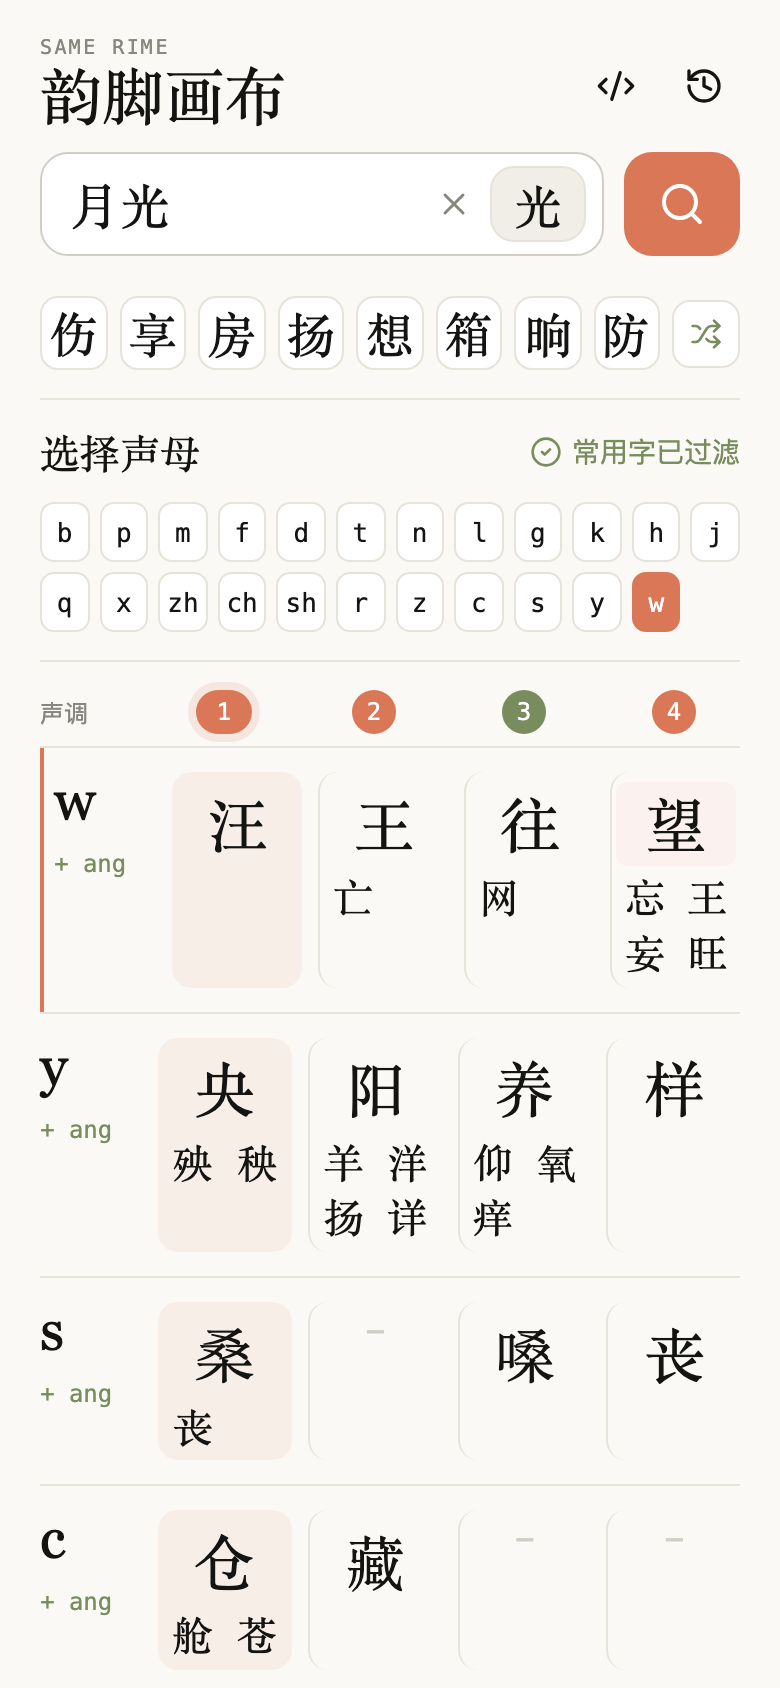
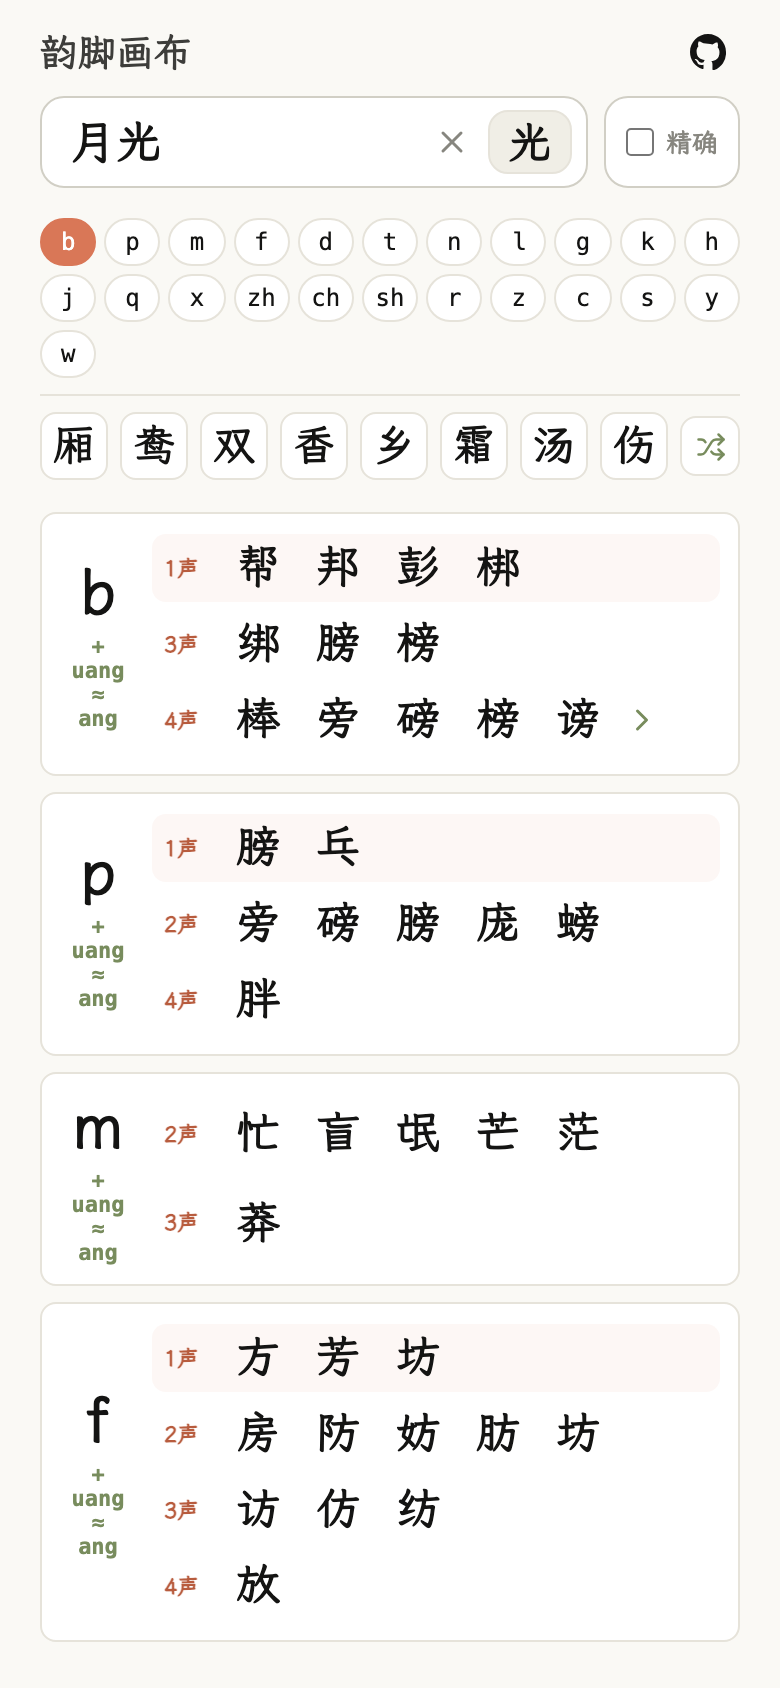
Release v1.0.1

diff --git a/src/styles.css b/src/styles.css
@@ -119,7 +119,8 @@ h2 {
 
 .composer {
   display: grid;
-  grid-template-columns: 1fr;
+  grid-template-columns: minmax(0, 1fr) auto;
+  gap: 8px;
   margin-bottom: 7px;
 }
 
@@ -302,41 +303,38 @@ h2 {
   background: color-mix(in srgb, var(--olive) 9%, var(--paper));
 }
 
+.exact-toggle {
+  min-height: 46px;
+  border-color: var(--g300);
+  border-radius: 12px;
+  padding-inline: 10px;
+  font-size: 13px;
+}
+
 .settings-row {
-  display: grid;
-  grid-template-columns: minmax(0, 1fr) auto;
-  gap: 8px;
+  display: block;
   align-items: center;
 }
 
 .initial-grid {
-  display: flex;
+  display: grid;
+  grid-template-columns: repeat(auto-fit, minmax(28px, 1fr));
   min-width: 0;
-  gap: 5px;
-  overflow-x: auto;
-  overflow-y: hidden;
-  overscroll-behavior-x: contain;
-  scrollbar-width: none;
-  -webkit-overflow-scrolling: touch;
-}
-
-.initial-grid::-webkit-scrollbar {
-  display: none;
+  gap: 4px;
 }
 
 .initial-grid button {
   display: inline-flex;
   align-items: center;
   justify-content: center;
-  flex: 0 0 auto;
-  min-width: 30px;
-  height: 28px;
+  min-width: 26px;
+  height: 24px;
   border: 1.5px solid var(--g200);
   border-radius: 999px;
   background: var(--paper);
   color: var(--slate);
   font-family: var(--mono);
-  font-size: 13px;
+  font-size: 12px;
   cursor: pointer;
   transition:
     border-color 120ms,
@@ -545,13 +543,14 @@ h2 {
   flex: 0 0 auto;
   align-items: center;
   justify-content: center;
-  width: 24px;
+  width: 18px;
   height: 24px;
   border: 0;
-  border-radius: 999px;
-  background: color-mix(in srgb, var(--olive) 9%, transparent);
+  border-radius: 0;
+  background: transparent;
   color: var(--olive);
   cursor: pointer;
+  padding: 0;
 }
 
 .char-chip.main {
@@ -566,11 +565,15 @@ h2 {
   flex-wrap: nowrap;
   align-items: center;
   gap: 6px;
-  overflow-x: auto;
+  overflow-x: visible;
   overflow-y: hidden;
   overscroll-behavior-x: contain;
   scrollbar-width: none;
   -webkit-overflow-scrolling: touch;
+}
+
+.card-chars.has-more {
+  gap: 6px;
 }
 
 .card-chars::-webkit-scrollbar {

diff --git a/src/App.tsx b/src/App.tsx
@@ -1,6 +1,6 @@
 import { useEffect, useMemo, useRef, useState } from 'react';
 import {
-  MoreHorizontal,
+  ChevronRight,
   Shuffle,
   X,
 } from 'lucide-react';
@@ -10,9 +10,10 @@ import './styles.css';
 
 const REPO_URL = 'https://github.com/holynova/char_finder';
 const AUTHOR_NAME = 'holynova';
-const APP_VERSION = '1.0.0';
+const APP_VERSION = '1.0.1';
 const TONES: Tone[] = [1, 2, 3, 4];
 const INLINE_RESULT_LIMIT = 6;
+const INLINE_RESULT_LIMIT_WITH_MORE = 5;
 const TONE_LABELS: Record<Tone, string> = {
   1: '1声',
   2: '2声',
@@ -265,6 +266,14 @@ function App() {
           )}
           {targetChar && <span className="target-chip">{targetChar}</span>}
         </label>
+        <label className={exactOnly ? 'common-toggle exact-toggle active' : 'common-toggle exact-toggle'}>
+          <input
+            type="checkbox"
+            checked={exactOnly}
+            onChange={(event) => setExactOnly(event.target.checked)}
+          />
+          <span>精确</span>
+        </label>
       </section>
 
       {targetChar && (
@@ -281,16 +290,6 @@ function App() {
                   {initial}
                 </button>
               ))}
-            </div>
-            <div className="filter-controls">
-              <label className={exactOnly ? 'common-toggle active' : 'common-toggle'}>
-                <input
-                  type="checkbox"
-                  checked={exactOnly}
-                  onChange={(event) => setExactOnly(event.target.checked)}
-                />
-                <span>精确匹配韵母</span>
-              </label>
             </div>
           </div>
           {rhymeReadings.length > 1 && (
@@ -375,9 +374,10 @@ function App() {
                 <div className="card-tones">
                   {toneRows.length ? (
                     toneRows.map(({ tone, items }) => {
-                      const previewItems = items.slice(0, INLINE_RESULT_LIMIT);
+                      const hasMore = items.length > INLINE_RESULT_LIMIT;
+                      const previewLimit = hasMore ? INLINE_RESULT_LIMIT_WITH_MORE : INLINE_RESULT_LIMIT;
+                      const previewItems = items.slice(0, previewLimit);
                       const [primary, ...rest] = previewItems;
-                      const hasMore = items.length > previewItems.length;
 
                       return (
                         <div
@@ -385,7 +385,7 @@ function App() {
                           key={`${initial}-${tone}`}
                         >
                           <b>{TONE_LABELS[tone]}</b>
-                          <div className="card-chars">
+                          <div className={hasMore ? 'card-chars has-more' : 'card-chars'}>
                             <button
                               type="button"
                               data-final={itemFinal(primary)}
@@ -414,7 +414,7 @@ function App() {
                                 aria-label={`查看更多${initial}${TONE_LABELS[tone]}`}
                                 onClick={() => setMorePanel({ initial, tone, items })}
                               >
-                                <MoreHorizontal size={18} />
+                                <ChevronRight size={18} />
                               </button>
                             )}
                           </div>

diff --git a/docs/index.html b/docs/index.html
@@ -11,8 +11,8 @@
       content="移动端中文押韵字查找工具，输入中文后按末字查询同韵常用字。"
     />
     <title>韵脚画布</title>
-    <script type="module" crossorigin src="./assets/index-CKbYqHv5.js"></script>
-    <link rel="stylesheet" crossorigin href="./assets/index-BEuqcuZF.css">
+    <script type="module" crossorigin src="./assets/index-eXJhJ-O5.js"></script>
+    <link rel="stylesheet" crossorigin href="./assets/index-CRHRc4v2.css">
   </head>
   <body>
     <div id="root"></div>

diff --git a/README.md b/README.md
@@ -1,8 +1,33 @@
 # 韵脚画布
 
-移动端中文押韵字查找工具：输入中文词句，取末字分析多音、声母、韵部和声调，过滤生僻字并给出随机灵感。
+移动端中文押韵字查找工具：输入中文词句，取末字分析多音字读音、声母、韵母、押韵韵部和声调，实时给出可用韵脚。
 
 ![项目截图](./public/screenshot.png)
 
-- Repo: https://github.com/holynova/char_finder
-- Pages: https://holynova.github.io/char_finder/
+- 在线使用：https://holynova.github.io/char_finder/
+- 源码仓库：https://github.com/holynova/char_finder
+- 当前版本：v1.0.1
+
+## 功能
+
+- 输入即搜索，自动取最后一个汉字作为押韵目标。
+- 多音字展示完整拼音，可切换不同读音对应的韵母结果。
+- 支持「精确」模式，只查看完全匹配韵母的结果。
+- 宽泛押韵会把更精确的韵母排在更前，例如 `in≈en` 时优先展示 `in`。
+- 结果按常用程度排序，超过 6 个时用 `>` 展开全屏查看更多。
+- 默认包含生僻字结果，便于找更丰富的押韵选择。
+
+## 本地开发
+
+```bash
+npm install
+npm run dev
+```
+
+## 发布构建
+
+```bash
+npm test
+```
+
+构建产物输出到 `docs/`，用于 GitHub Pages 发布。